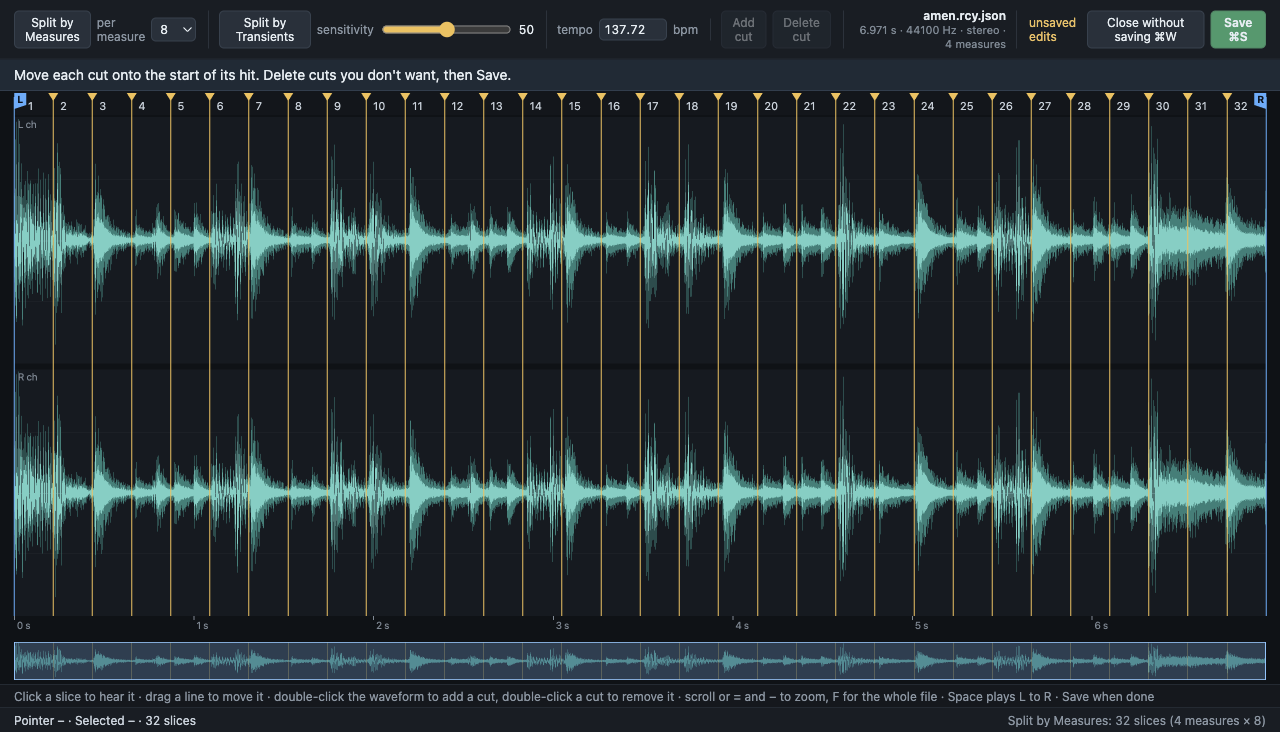
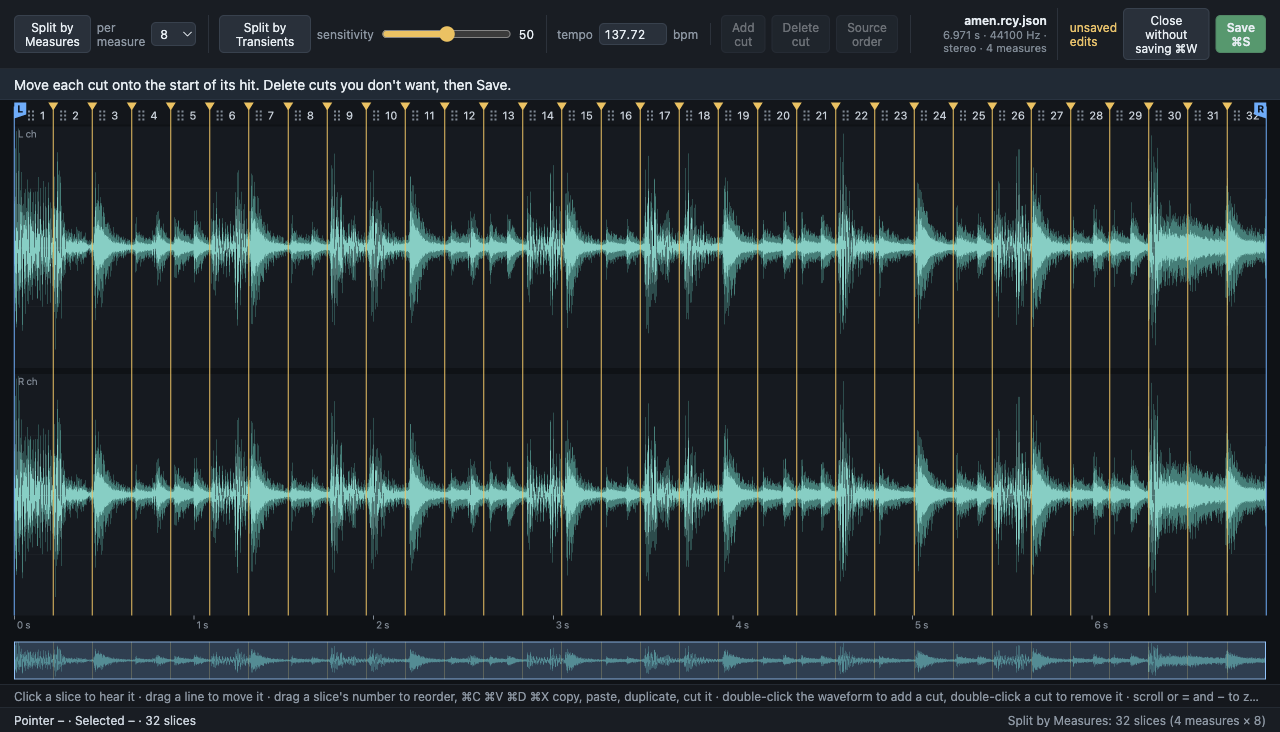
docs: README section on arranging a break in place, with retaken screenshots
Adds the section on reordering slices and the L and R loop markers, two new
screenshots taken by capture.js, and the play order in the kit reference.
The seven existing screenshots are retaken against the current window.

diff --git a/docs/screenshots/capture.js b/docs/screenshots/capture.js
@@ -24,6 +24,10 @@ const LAUNCH_BPM = "165";        // parameter: tempo stated at launch in the tem
 const REFUSED_BPM = "1";         // parameter: a tempo a MIDI file can't hold, typed to show the refusal
 const VIEW_SLICES = 3;           // parameter: slices in view in the --view and --select shot
 const SELECTED = 9;              // parameter: the slice --select names in that shot
+const ARRANGE_RESOLUTION = 4;    // parameter: slices per measure in the arranging shots, wide enough to read their numbers
+const MOVED_SLICE = 6;           // parameter: the slice dragged to the front in the arranging shots
+const REPEATED_SLOT = 3;         // parameter: the slot duplicated in the arranging shots
+const LOOP_SLOTS = 8;            // parameter: slots left in the loop after R is brought in
 
 const scratch = fs.mkdtempSync(path.join(os.tmpdir(), "rcy-shots-"));
 const r = spawnSync("node", [path.join(ROOT, "export", "rcy-export"), "--input", path.join(ROOT, "presets", "amen.wav"),
@@ -106,5 +110,28 @@ const midY = (s) => s.plot.y + s.plot.height / 2;
     "--task", "The selected slice starts late. Move its left cut onto the hit, then Save."]);
   await w.shot("one-cut-in-view.png");
   w.close();
-  console.log("wrote 7 screenshots to " + OUT);
+
+  // Arranging in place: a slice dragged to the front, one repeated, then R brought in to set the loop.
+  w = await open("arrange", ["--split", "measures", "--resolution", String(ARRANGE_RESOLUTION),
+    "--task", "Arrange the slices into the loop you want, put L and R around it, then Save."]);
+  s = await w.state();
+  const stripY = s.plot.y - 12;
+  const slotMid = (t, k) => (xOf(t, t.shown[k - 1]) + xOf(t, t.shown[k])) / 2;
+  await w.page.mouse.move(slotMid(s, MOVED_SLICE), stripY); await w.page.mouse.down();
+  await w.page.mouse.move(xOf(s, s.shown[0]) + 14, stripY, { steps: 6 }); await w.page.mouse.up();
+  s = await w.state();
+  await w.page.mouse.click(slotMid(s, REPEATED_SLOT), stripY);
+  await w.page.keyboard.press("Meta+d");
+  s = await w.state();
+  if (s.order[0] !== MOVED_SLICE || s.order[REPEATED_SLOT] !== s.order[REPEATED_SLOT - 1]) throw new Error("the order is not the one the shot shows: " + s.order);
+  await w.shot("arranged-in-place.png");
+  const xR = xOf(s, s.shown[s.shown.length - 1]) - 5;
+  await w.page.mouse.move(xR, stripY); await w.page.mouse.down();
+  await w.page.mouse.move(xOf(s, s.shown[LOOP_SLOTS]) + 3, stripY, { steps: 8 }); await w.page.mouse.up();
+  s = await w.state();
+  if (s.loop[0] !== 1 || s.loop[1] !== LOOP_SLOTS) throw new Error("the loop is " + s.loop);
+  await w.page.mouse.move(xOf(s, s.shownFrames / 2), midY(s));
+  await w.shot("loop-markers.png");
+  w.close();
+  console.log("wrote 9 screenshots to " + OUT);
 })().catch((e) => { console.error(e); process.exit(1); });

diff --git a/README.md b/README.md
@@ -4,7 +4,9 @@ rcy turns a recorded drum break into a sampler kit: one audio file per drum
 hit, with the instrument and MIDI files a sampler needs to play them. An
 agent prepares the cut and a person corrects it in a window. This page
 explains why the work is divided that way, what the division implies about
-agents and people working together, and how one break goes through it.
+agents and people working together, and how one break goes through it. The
+same window also rearranges the slices into a new loop, on the waveform,
+before anything is exported.
 
 ## Why a person still looks at the waveform
 
@@ -185,6 +187,41 @@ cut written into the instrument files as the start point. A cut that turns
 out a few milliseconds late can then be corrected in the sampler without
 going back to the window.
 
+## Arranging the break in place
+
+A break cut into slices is also a set of pieces that can play in another
+order. Much of what jungle and drum and bass did with these recordings was
+exactly that: the same eight or sixteen pieces restarted early, repeated or
+left out. The usual way to try an arrangement is to export the slices, load
+them into a sampler and draw MIDI notes, then return to the editor when a cut
+turns out to be wrong. The window does it on the waveform.
+
+Each slice has a handle and its number in the strip above the waveform.
+Dragging a slice by the strip moves it. With a slice selected, Cmd+C, Cmd+V,
+Cmd+D and Cmd+X copy, paste, duplicate and cut it. The waveform redraws in
+the new order and Space plays it as a loop, so the person sees and hears the
+arrangement while they make it. A slice keeps its source number wherever it
+plays, and the Source order button puts everything back.
+
+![The Amen break in sixteen slices with slice 6 dragged to the front and slice 2 playing twice: the strip reads 6 1 2 2 3 4 5 7 and so on](docs/screenshots/arranged-in-place.png)
+
+Cuts stay editable while the slices are out of order. Moving a line changes
+where that slice starts in the source, and every place the slice plays
+follows.
+
+L and R mark the loop. Each sits on a slice edge, and dragging its flag
+changes two things only: what Space plays and what Save keeps. The
+arrangement under the markers doesn't move.
+
+![The same arrangement with R brought in to the end of the eighth slot: the first eight slots are lit, the rest are shaded, and the status line reads "Loop: slot 1 to slot 8 (8 slices)"](docs/screenshots/loop-markers.png)
+
+Save writes the loop and discards the rest. The manifest's `order` lists the
+loop's slices as they play, and the kit's MIDI file has one note for each in
+that order, so the kit's instrument and MIDI file loaded into a DAW play the
+loop as it was arranged. A kit's slices are one unbroken stretch of the
+source, from the lowest-numbered slice the loop plays to the highest; a slice
+inside that stretch that the loop skips is still in the kit.
+
 ## Reference
 
 This is an alpha; the file formats and command lines can still change.
@@ -276,8 +313,8 @@ The example is shortened. Positions are in frames at 44.1 kHz.
 | `001.wav`, `002.wav`, ... | One WAV per slice, copied from the source without resampling, fades or gain change. |
 | `<name>.sfz` | An SFZ instrument, one region per slice from MIDI key 60 upward. |
 | `<name>.exs` | With `--exs`, a Logic Pro Sampler instrument. |
-| `<name>.mid` | A MIDI file that plays the slices in order at the kit's tempo. |
-| `<name>.rcy.json` | The manifest: source, tempo, cut positions in frames, and each slice's key and file. |
+| `<name>.mid` | A MIDI file that plays the slices at the kit's tempo, in the manifest's `order` when it has one and in source order otherwise. |
+| `<name>.rcy.json` | The manifest: source, tempo, cut positions in frames, each slice's key and file, and the play order when the slices were rearranged. |
 
 ```
 node export/rcy-export --input break.wav --measures 2 --resolution 8 --out /tmp/kit
@@ -345,13 +382,11 @@ cd rcy-sdk && node --test "test/*.test.ts"
 ```
 
 ```
-NODE_PATH=tools/window-runtime/node_modules node features/window/scenarios.js \
-    "$PWD/tools/window-runtime/node_modules/electron/dist/Electron.app/Contents/MacOS/Electron" \
-    "$PWD/window/rcy-window" "$PWD/export/rcy-export" "$PWD/presets/amen.wav"
+bin/shortcuts/window-scenarios
 ```
 
 The window scenarios open real windows and drive them with the pointer and
-keyboard. Keep the machine's own pointer still while they run, and don't
+keyboard. An argument runs only the scenarios whose name contains it. Keep the machine's own pointer still while they run, and don't
 start them while someone is working on that screen.
 
 The Gherkin scenarios for `rcy-export` run through `uv run bin/trial`. They
